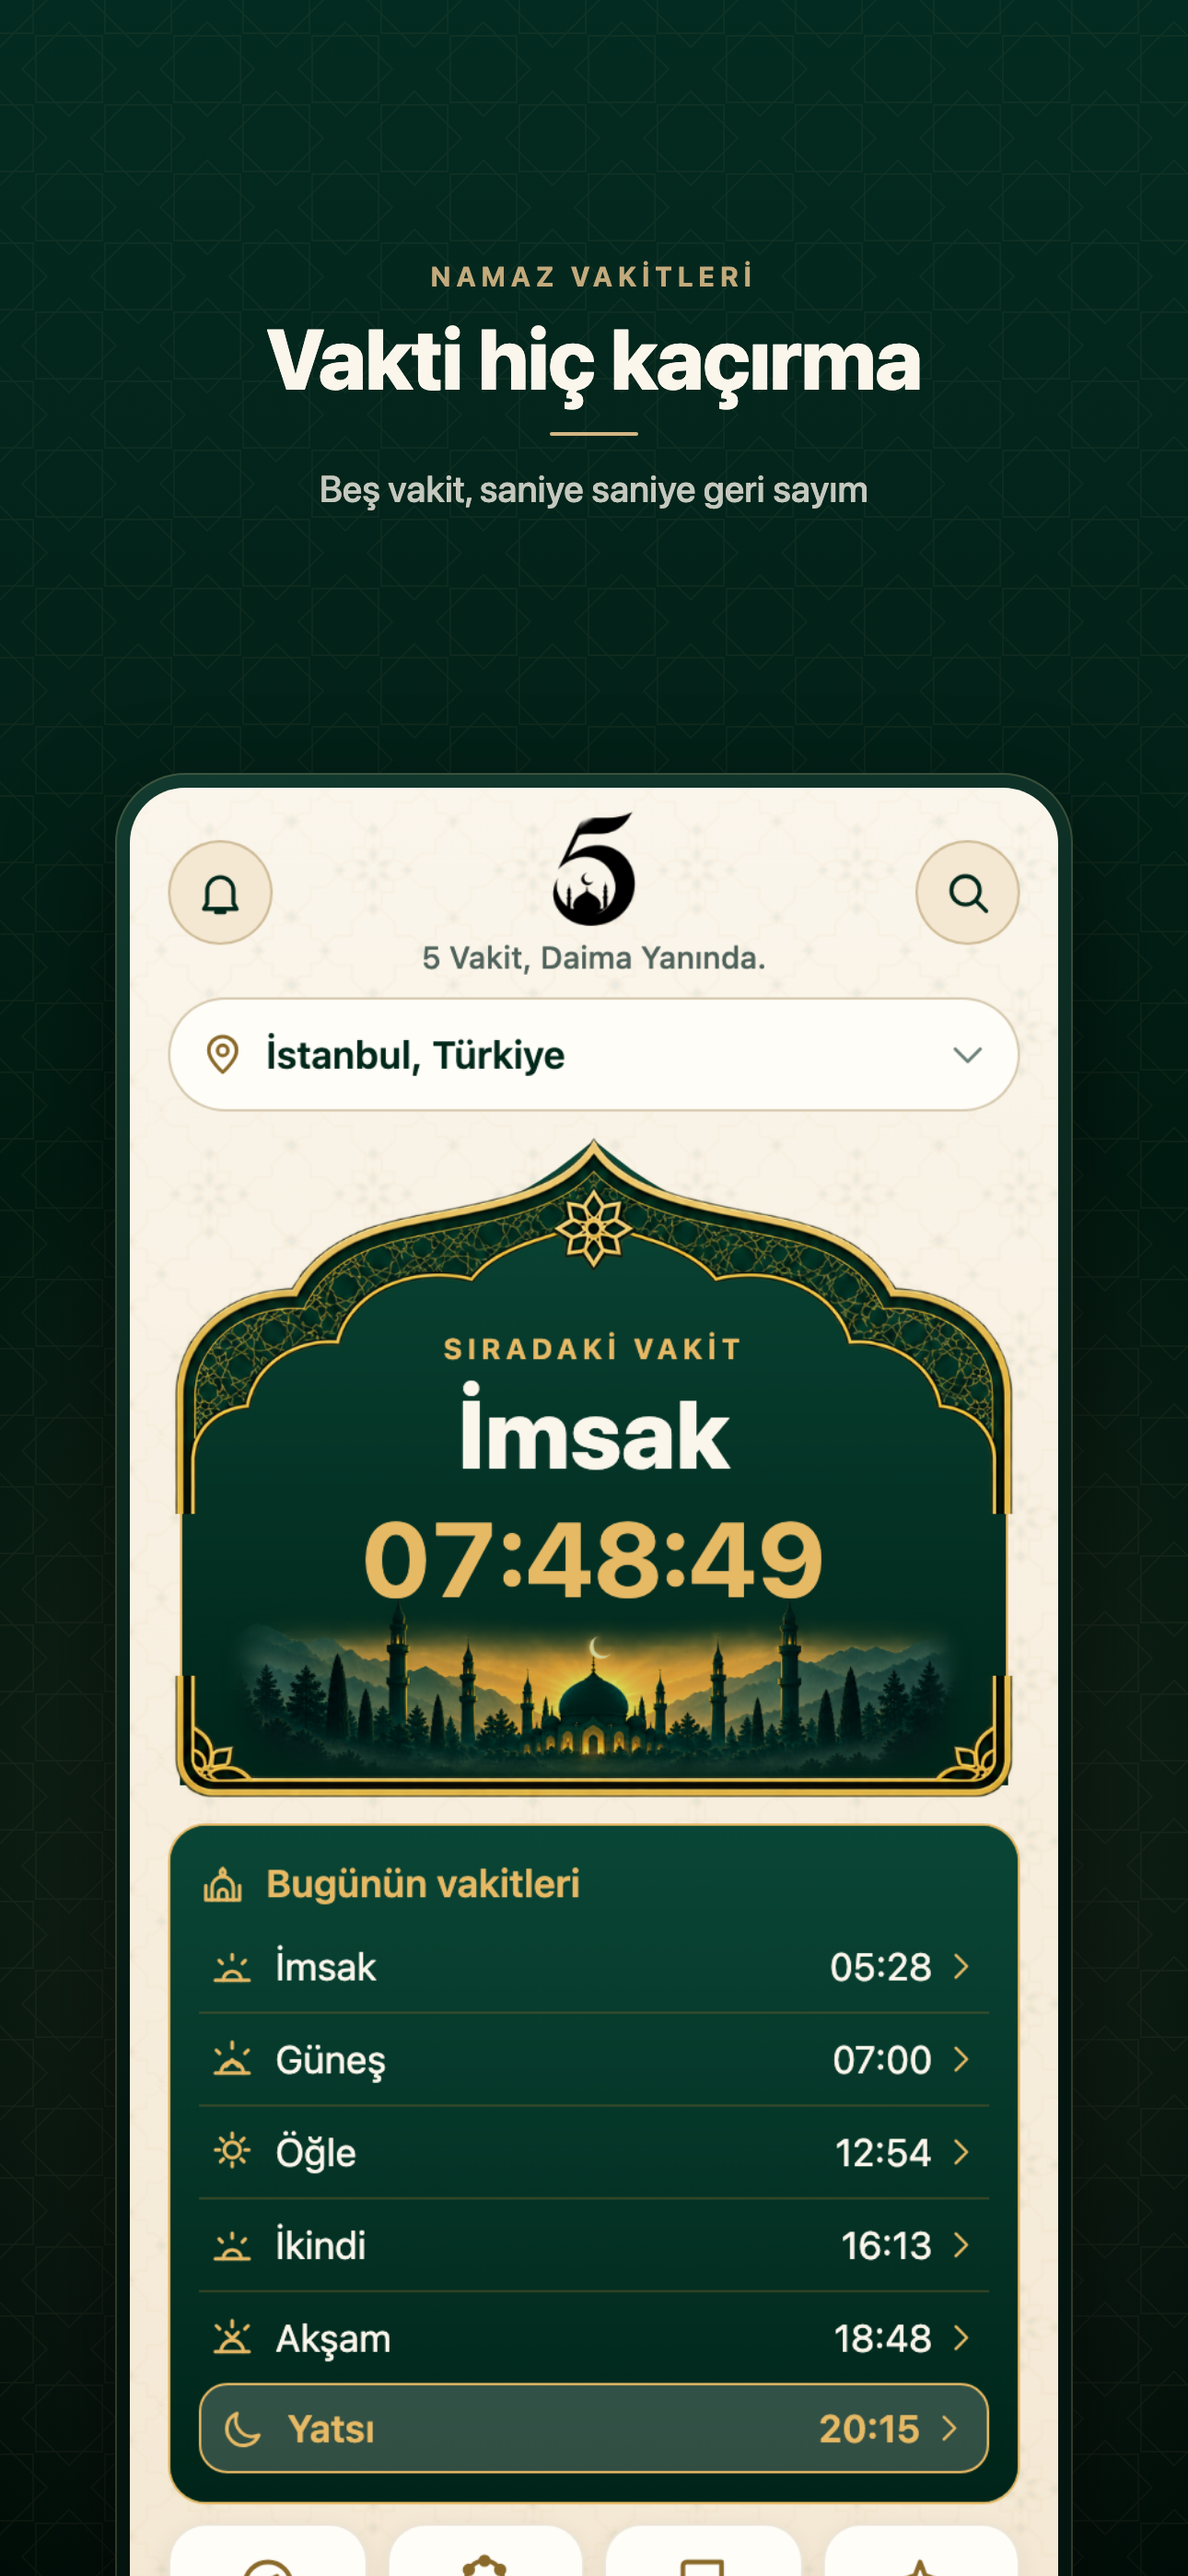
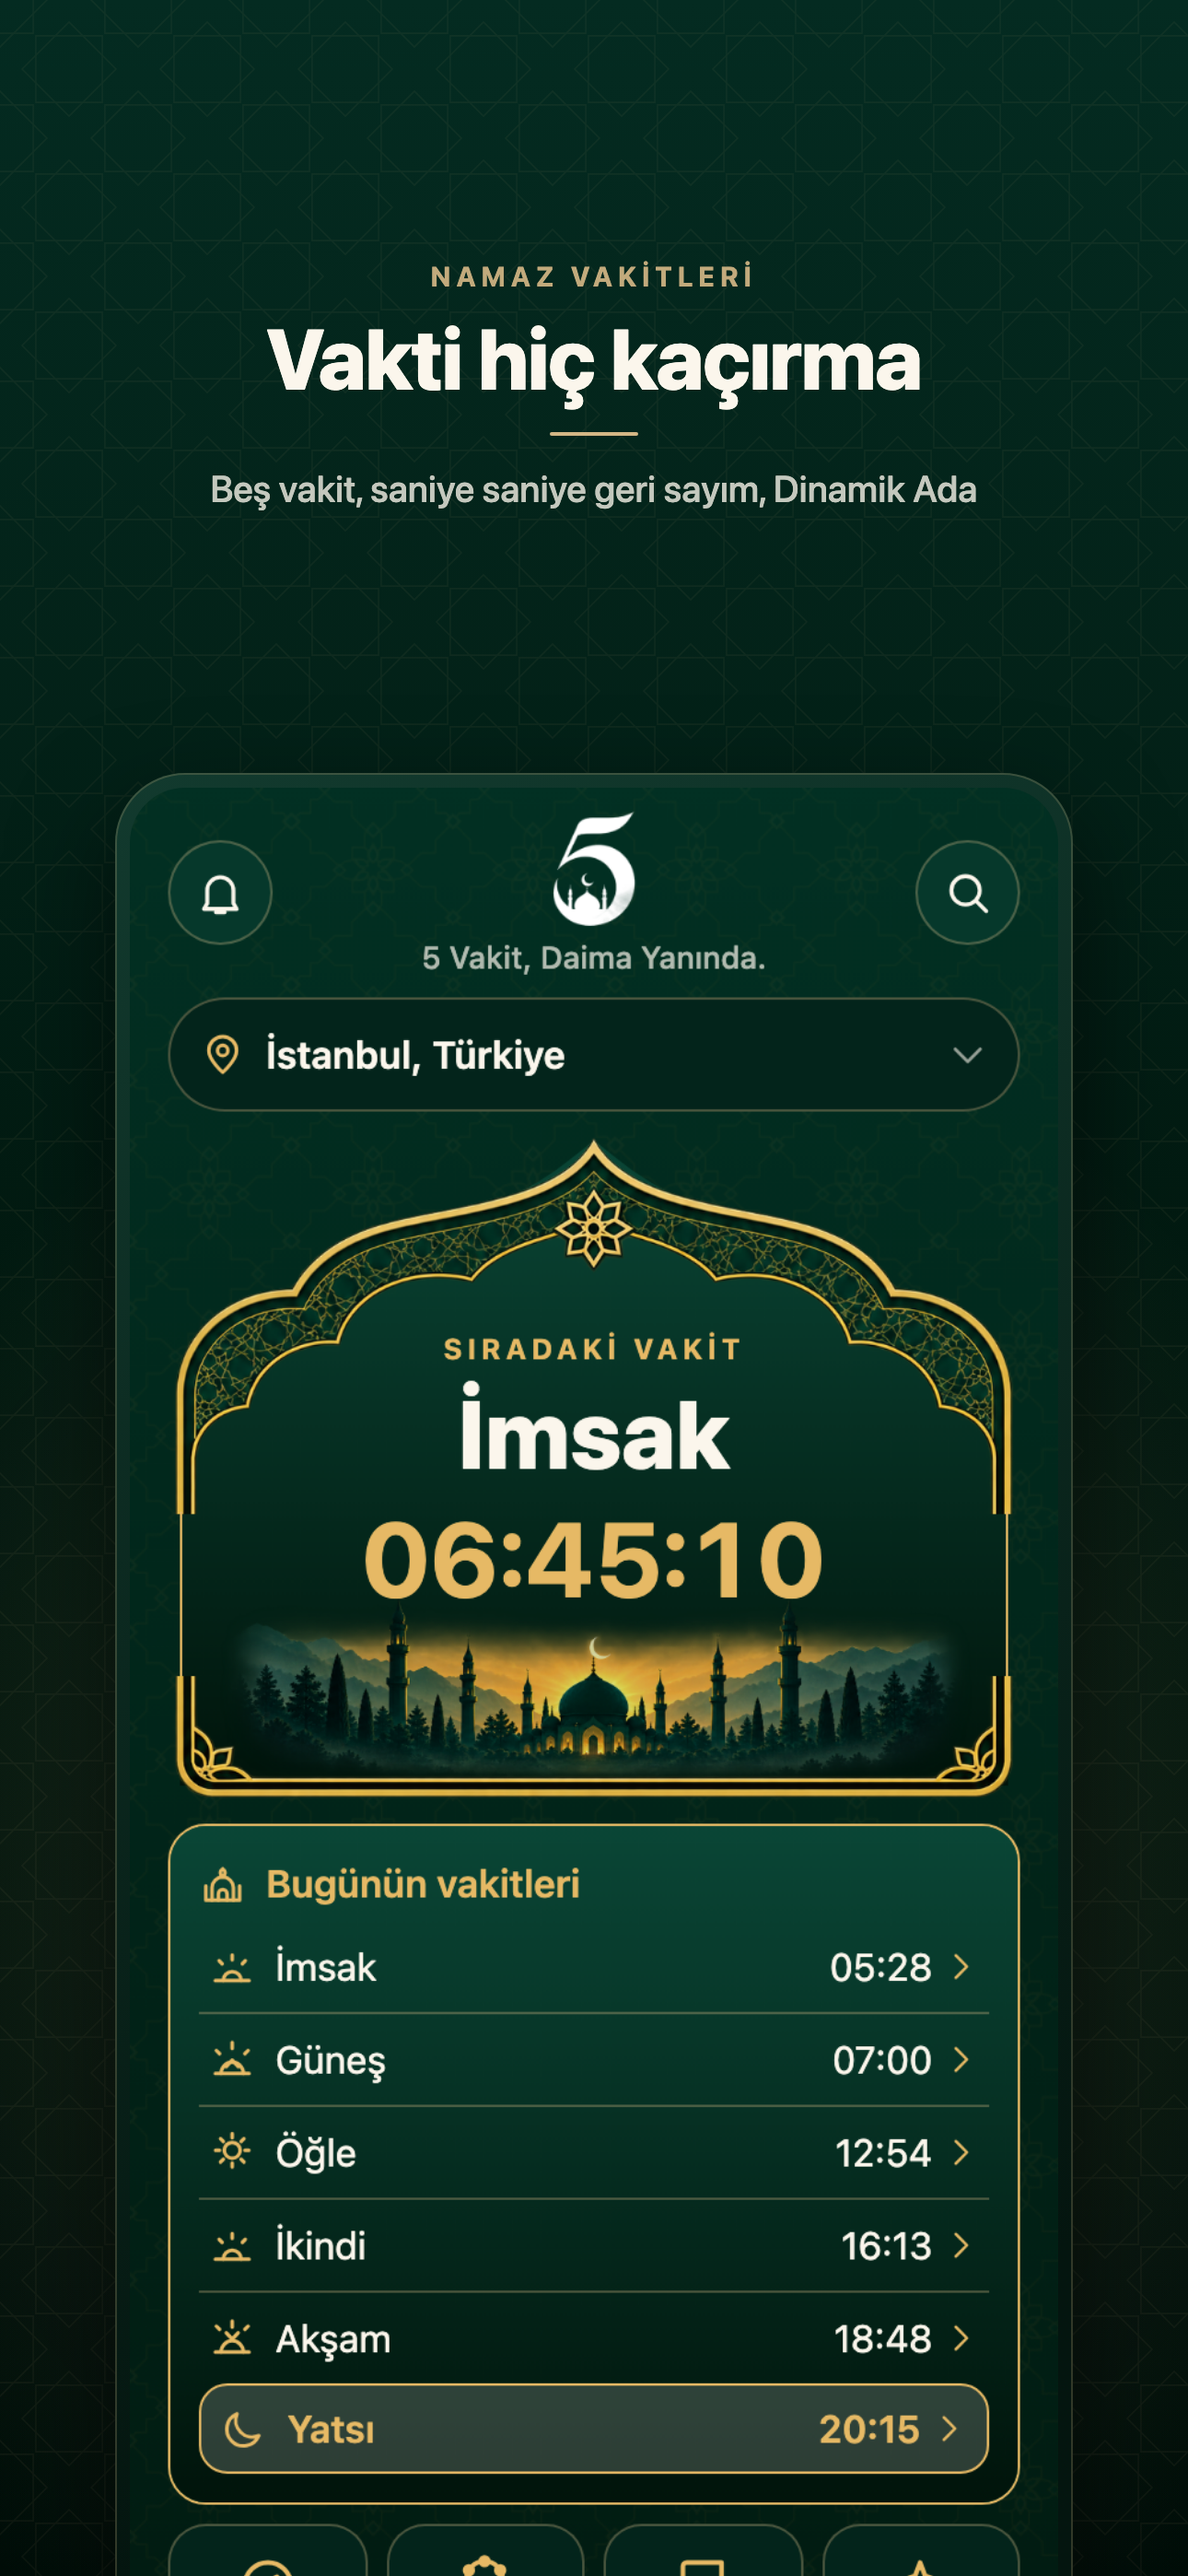
bes: v1.0.0 — koyu temalı yeni mağaza görselleri, hatırlatıcı listesi düzeltmesi
- Hatırlatıcılar: satırdaki anahtar tam bir liste satırıydı (Toggle), başlığı
  iki kez çizip asıl başlığı harf harf kırıyordu. Yalın Switch.
- preview.js: "vitrin" geçişi — koyu tema, uzun ekran, üç haftalık örnek
  kullanım (zikir, ibadet defteri, hatim, hatırlatıcı, ders). Denetim
  geçişleri tohumsuz kalıyor.
- store-shots.js: iki telefonlu kare düzeni; yeni 7 kare: vakitler, Kur'an,
  zikirmatik+istatistik, öğren+elifbâ, defter+istatistik, hatim+topluluk,
  hatırlatıcılar+bildirim merkezi.

diff --git a/bes/tools/store-shots.js b/bes/tools/store-shots.js
@@ -56,16 +56,15 @@ function tarayiciYolu() {
  * mağazada kaydırmadan görünür; en güçlü iki ekran oraya konur.
  */
 const KARELER = [
-  { dosya: 'acik/10-ana-sayfa.png', baslik: 'Vakti hiç kaçırma', alt: 'Beş vakit, saniye saniye geri sayım', etiket: 'NAMAZ VAKİTLERİ' },
-  { dosya: 'acik/20-okuyucu.png', baslik: 'Kur’an-ı Kerim', alt: '6.236 âyet, Elmalılı meali, 18 okuyucu', etiket: 'KUR’AN' },
-  // Kıble ekranı bilerek seçilmedi: tarayıcıda pusula olmadığı için kare
-  // "Pusula okunamıyor" uyarısıyla çıkıyor ve mağazada kusur gibi duruyor.
-  // Özellik açıklamada anlatılıyor; gerçek cihazda kare çekilince eklenir.
-  { dosya: 'acik/40-vakit-takvimi.png', baslik: 'Ay boyu takvim', alt: 'Otuz günün vakitleri tek ekranda', etiket: 'TAKVİM' },
-  { dosya: 'acik/31-zikir.png', baslik: 'Zikirmatik', alt: 'Hedef belirle, seriyi sürdür', etiket: 'ZİKİR' },
-  { dosya: 'koyu/10-ana-sayfa.png', baslik: 'Koyu tema', alt: 'Gece okumak için dinlendirici', etiket: 'GÖRÜNÜM' },
-  { dosya: 'acik/54-ramazan.png', baslik: 'Ramazan', alt: 'İmsaktan iftara, ay boyu imsakiye', etiket: 'RAMAZAN' },
-  { dosya: 'acik/51-ibadet-gunlugu.png', baslik: 'İbadet defteri', alt: 'Kaza, oruç ve hatim tek yerde', etiket: 'TAKİP' },
+  // Hepsi `vitrin` geçişinden: koyu tema + üç haftalık örnek kullanım
+  // (tools/preview.js → tohumla). Açık temanın kareleri mağazaya konmaz.
+  { dosya: 'vitrin/10-ana-sayfa.png', baslik: 'Vakti hiç kaçırma', alt: 'Beş vakit, saniye saniye geri sayım, Dinamik Ada', etiket: 'NAMAZ VAKİTLERİ' },
+  { dosya: 'vitrin/20-okuyucu.png', baslik: 'Kur’an-ı Kerim', alt: '6.236 âyet, Elmalılı meali, 18 okuyucu', etiket: 'KUR’AN' },
+  { dosya: 'vitrin/31-zikir.png', dosya2: 'vitrin/32-zikir-istatistik.png', baslik: 'Zikirmatik ve istatistik', alt: 'Hedef belirle, seriyi sürdür, gelişimini gör', etiket: 'ZİKİR' },
+  { dosya: 'vitrin/13-ogren.png', dosya2: 'vitrin/18-elifba.png', baslik: 'Kur’an okumayı öğren', alt: 'Elifbâdan kısa surelere 31 sesli ders', etiket: 'ÖĞREN' },
+  { dosya: 'vitrin/51-ibadet-gunlugu.png', dosya2: 'vitrin/57-ibadet-istatistik.png', baslik: 'İbadet defteri ve istatistik', alt: 'Namaz, Kur’an, oruç ve kaza tek yerde', etiket: 'TAKİP' },
+  { dosya: 'vitrin/53-hatim.png', dosya2: 'vitrin/63-topluluk.png', baslik: 'Hatim ve topluluk', alt: 'Hatmini takip et, dua panosunda buluş', etiket: 'TOPLULUK' },
+  { dosya: 'vitrin/43-hatirlatici.png', dosya2: 'vitrin/44-bildirim-merkezi.png', baslik: 'Özel hatırlatıcılar', alt: 'Kur’an okuma ve vakit bildirimleri, ezan sesiyle', etiket: 'BİLDİRİMLER' },
 ];
 
 const HEDEFLER = [
@@ -146,7 +145,7 @@ const KAYNAK_ORAN = 1688 / 780;        // denetim karelerinin en-boy oranı
 const GORUNEN = 0.89;                   // ekranın görünen kısmı; kalanı taşar
 const METIN_ORANI = 0.30;               // karenin üst %30'u metne ayrılır
 
-function kareHtml({ w, h, baslik, alt, etiket, resim }) {
+function kareHtml({ w, h, baslik, alt, etiket, resim, resim2 }) {
   const k = w / 1290;                   // tipografi tek orandan türer
   const bezel = Math.round(16 * k);
   const radius = Math.round(76 * k);
@@ -180,6 +179,11 @@ function kareHtml({ w, h, baslik, alt, etiket, resim }) {
          box-shadow:0 ${Math.round(46 * k)}px ${Math.round(110 * k)}px rgba(0,0,0,.55),
                     inset 0 0 0 ${Math.max(1, Math.round(2 * k))}px rgba(211,182,133,.22)}
   .cihaz img{display:block;width:100%;border-radius:${radius - bezel}px ${radius - bezel}px 0 0}
+  /* İki ekranlı kare: ikisi de küçülür; soldaki geride ve aşağıda, sağdaki
+     önde. Tek telefonla aynı yükseklikten başlar ki kareler arası hizalı kalsın. */
+  .cift .cihaz{width:${Math.round(w * 0.58)}px;padding:${Math.round(bezel * 0.8)}px ${Math.round(bezel * 0.8)}px 0}
+  .cift .sol{left:${Math.round(w * 0.30)}px;top:${yaziAlani + Math.round(150 * k)}px}
+  .cift .sag{left:${Math.round(w * 0.70)}px;top:${yaziAlani}px}
   </style>
   ${desen(k)}
   <div class="yazi">
@@ -188,7 +192,9 @@ function kareHtml({ w, h, baslik, alt, etiket, resim }) {
     <div class="cizgi"></div>
     <p>${kacis(alt)}</p>
   </div>
-  <div class="cihaz"><img src="${gomulu(resim)}"></div>`;
+  ${resim2
+    ? `<div class="cift"><div class="cihaz sol"><img src="${gomulu(resim)}"></div><div class="cihaz sag"><img src="${gomulu(resim2)}"></div></div>`
+    : `<div class="cihaz"><img src="${gomulu(resim)}"></div>`}`;
 }
 
 /**
@@ -225,7 +231,7 @@ function ozellikHtml(w, h, logo) {
 }
 
 (async () => {
-  if (!fs.existsSync(path.join(KAYNAK, 'acik'))) {
+  if (!fs.existsSync(path.join(KAYNAK, 'vitrin'))) {
     console.error(`Denetim kareleri yok: ${KAYNAK}\n  npm run preview`);
     process.exit(1);
   }
@@ -241,9 +247,12 @@ function ozellikHtml(w, h, logo) {
     fs.mkdirSync(dizin, { recursive: true });
     for (const [i, kare] of KARELER.entries()) {
       const resim = path.join(KAYNAK, kare.dosya);
-      if (!fs.existsSync(resim)) throw new Error(`kaynak kare yok: ${resim}`);
+      const resim2 = kare.dosya2 ? path.join(KAYNAK, kare.dosya2) : undefined;
+      for (const r of [resim, resim2].filter(Boolean)) {
+        if (!fs.existsSync(r)) throw new Error(`kaynak kare yok: ${r}`);
+      }
       const page = await browser.newPage({ viewport: { width: hedef.w, height: hedef.h } });
-      await page.setContent(kareHtml({ ...hedef, ...kare, resim }), { waitUntil: 'load' });
+      await page.setContent(kareHtml({ ...hedef, ...kare, resim, resim2 }), { waitUntil: 'load' });
       await page.waitForTimeout(400);
       const ad = `${String(i + 1).padStart(2, '0')}-${kare.baslik.toLowerCase().replace(/[^a-z0-9]+/gi, '-')}.png`;
       await page.screenshot({ path: path.join(dizin, ad) });

diff --git a/bes/tools/preview.js b/bes/tools/preview.js
@@ -85,6 +85,7 @@ const EKRANLAR = [
   ['50-namaz-rehberi', '/prayer-guide'], ['51-ibadet-gunlugu', '/worship-log'],
   ['52-kaza', '/qada'], ['53-hatim', '/khatm'], ['54-ramazan', '/ramadan'],
   ['55-zekat', '/zakat'], ['56-hac-umre', '/hajj'],
+  ['57-ibadet-istatistik', '/worship-stats'], ['63-topluluk', '/community'], ['64-hatim-gruplari', '/khatm-circles'],
   ['60-bilgi', '/knowledge'], ['61-hicri-takvim', '/hijri'], ['62-paylasim-karti', '/share-card'],
   ['70-ana-sayfa-duzeni', '/home-layout'], ['71-hesap', '/account'], ['72-tani', '/diagnostics'],
 ];
@@ -103,6 +104,9 @@ const GECISLER = [
   { ad: 'dar', klasor: 'dar', viewport: { width: 320, height: 568 }, tema: 'light' },
   // Arapça arayüz: sağdan sola akış ve uzun kelimeler.
   { ad: 'arapca', klasor: 'ar', viewport: { width: 390, height: 844 }, tema: 'light', dil: 'ar' },
+  // Mağaza kareleri: koyu tema + örnek kullanım verisi (tools/store-shots.js).
+  // Uzun ekran: mağaza karesinde telefon alttan taşar; kısa kare altta boşluk bırakıyordu.
+  { ad: 'vitrin', klasor: 'vitrin', viewport: { width: 390, height: 1120 }, tema: 'dark', vitrin: true },
 ];
 
 const bekle = (p, ms) => p.waitForTimeout(ms);
@@ -131,13 +135,58 @@ const BAGLAM = { viewport: { width: 390, height: 844 }, locale: 'tr-TR', timezon
  * Tema ve dil depodan okunuyor; arayüzden tıklayarak geçmek her ekranda
  * bir tur gezinme demekti ve bir kez de yanlış ekranda kaldı.
  */
-async function tohumla(ctx, { tema = 'light', dil = 'tr' } = {}) {
+async function tohumla(ctx, { tema = 'light', dil = 'tr', vitrin = false } = {}) {
   await ctx.addInitScript((veri) => {
     localStorage.setItem('bes.onboardingDone', 'true');
     localStorage.setItem('bes.locations', JSON.stringify({ locations: [veri.yer], activeId: veri.yer.id }));
     localStorage.setItem('bes.themeMode', JSON.stringify(veri.tema));
     localStorage.setItem('bes.settings', JSON.stringify({ language: veri.dil }));
-  }, { yer: ISTANBUL, tema, dil });
+    if (!veri.vitrin) return;
+    // --- Vitrin: mağaza kareleri için üç haftalık örnek kullanım. Yalnız
+    // `vitrin` geçişinde; denetim geçişleri boş ekranları da sınasın diye
+    // tohumsuz kalır. Rastgele değil, sabit örüntü: kareler her üretimde aynı.
+    const gun = (fark) => {
+      const d = new Date(); d.setDate(d.getDate() - fark);
+      return `${d.getFullYear()}-${String(d.getMonth() + 1).padStart(2, '0')}-${String(d.getDate()).padStart(2, '0')}`;
+    };
+    const ZIKIR = [['Sübhânallah', 33], ['Elhamdülillah', 33], ['Allâhu ekber', 34], ['Estağfirullah', 100], ['Salavât', 100]];
+    const sessions = [];
+    const days = {};
+    const VAKIT = ['fajr', 'dhuhr', 'asr', 'maghrib', 'isha'];
+    for (let f = 0; f < 21; f += 1) {
+      const t = gun(f);
+      const kac = f === 0 ? ZIKIR.length : 1 + ((f * 7) % 3);
+      for (let i = 0; i < kac; i += 1) {
+        const [ad, hedef] = ZIKIR[(f + i) % ZIKIR.length];
+        const tam = (f + i) % 4 !== 3;
+        sessions.push({ id: `z${f}-${i}`, title: ad, count: tam ? hedef : Math.round(hedef * 0.6), target: hedef, onDate: t, createdAt: Date.now() - f * 864e5 - i * 36e5 });
+      }
+      const prayers = {};
+      VAKIT.forEach((v, i) => {
+        if ((f + i) % 9 === 8) return;
+        prayers[v] = (f + i) % 3 === 0 ? 'jamaah' : 'alone';
+      });
+      days[t] = { date: t, prayers, quranMinutes: 10 + ((f * 13) % 35) };
+    }
+    const worship = {
+      sessions, days,
+      qada: { fajr: 12, dhuhr: 4, asr: 6, maghrib: 2, isha: 9, witr: 3 },
+      qadaHistory: [],
+      khatms: [{ id: 'h1', title: 'Ramazan hatmi', startedOn: gun(20), targetOn: gun(-18),
+        completedJuz: [1, 2, 3, 4, 5, 6, 7, 8, 9, 10, 11, 12, 13, 14], active: true }],
+      reminders: [
+        { id: 'r1', title: 'Kur’an okuma vakti', body: 'Bugünkü sayfanı oku', trigger: { kind: 'time', hour: 21, minute: 0 }, weekdays: [], enabled: true },
+        { id: 'r2', title: 'Sabah namazına hazırlan', trigger: { kind: 'prayer', slot: 'fajr', offsetMinutes: -20 }, weekdays: [], enabled: true },
+        { id: 'r3', title: 'Cuma — Kehf sûresi', trigger: { kind: 'time', hour: 10, minute: 0 }, weekdays: [5], enabled: true },
+        { id: 'r4', title: 'Akşam ezkârı', trigger: { kind: 'prayer', slot: 'maghrib', offsetMinutes: 15 }, weekdays: [], enabled: true },
+      ],
+      fasts: { [gun(1)]: { date: gun(1), kind: 'nafile', completed: true }, [gun(4)]: { date: gun(4), kind: 'nafile', completed: true } },
+    };
+    localStorage.setItem('bes.worship', JSON.stringify(worship));
+    const DERS = ['harf-1', 'harf-2', 'harf-3', 'harf-4', 'harf-5', 'harf-6', 'harf-7', 'harf-tekrar', 'bitisme', 'ustun', 'esre'];
+    localStorage.setItem('bes.learning', JSON.stringify(DERS.map((id, i) => ({ lessonId: id, stars: i % 4 === 3 ? 2 : 3, completedAt: Date.now() - (DERS.length - i) * 864e5 }))));
+    localStorage.setItem('bes.reading', JSON.stringify({ position: { surah: 18, ayah: 10, updatedAt: Date.now() }, bookmarks: [] }));
+  }, { yer: ISTANBUL, tema, dil, vitrin });
 }
 
 async function ekranlar(port) {
@@ -195,7 +244,7 @@ async function ekranlar(port) {
       ...BAGLAM, viewport: gecis.viewport, deviceScaleFactor: 2,
       ...(gecis.dil === 'ar' ? { locale: 'ar' } : {}),
     });
-    await tohumla(ctx, { tema: gecis.tema, dil: gecis.dil ?? 'tr' });
+    await tohumla(ctx, { tema: gecis.tema, dil: gecis.dil ?? 'tr', vitrin: gecis.vitrin ?? false });
     const page = await ctx.newPage();
     let suAnki = '';
     page.on('pageerror', (e) => sorunlar.push({ gecis: gecis.ad, ekran: suAnki, tur: 'hata', ayrinti: String(e).slice(0, 160) }));

diff --git a/bes/app/reminders.tsx b/bes/app/reminders.tsx
@@ -1,10 +1,10 @@
 /** Özel hatırlatıcılar — şartname §64. */
 import React, { useMemo, useState } from 'react';
-import { View } from 'react-native';
+import { Switch, View } from 'react-native';
 import { Stack } from 'expo-router';
 import {
   Screen, SectionHeader, Card, Column, Row, Text, Field, Button, Chip,
-  Segmented, Stepper, Toggle, EmptyState, IconButton, Banner, Divider,
+  Segmented, Stepper, EmptyState, IconButton, Banner, Divider,
 } from '@/ui';
 import { useTheme } from '@/theme/ThemeProvider';
 import { useT, type StringKey } from '@/lib/i18n';
@@ -98,10 +98,15 @@ export default function RemindersScreen() {
                     {`${anlat(r)} · ${r.weekdays.length === 0 ? t('reminder.everyDay') : GUN_SIRASI.filter((d) => r.weekdays.includes(d)).map((d) => t(GUN_ANAHTARI[d]!)).join(' ')}`}
                   </Text>
                 </Column>
-                <Toggle
-                  title={r.title}
+                {/* Yalın anahtar: `Toggle` tam bir liste satırıdır ve başlığı ikinci
+                    kez çizip yer kaplıyordu; asıl başlık dar sütunda harf harf
+                    kırılıyordu ("Sab/ah/na/ma…", 30 Eylül mağaza karesi). */}
+                <Switch
                   value={r.enabled}
-                  onChange={(v) => update(r.id, { enabled: v })}
+                  onValueChange={(v) => update(r.id, { enabled: v })}
+                  accessibilityLabel={r.title}
+                  trackColor={{ false: theme.colors.border, true: theme.colors.accent }}
+                  thumbColor={theme.colors.surface}
                 />
                 <IconButton name="close" label={t('common.delete')} size={18} onPress={() => remove(r.id)} />
               </Row>
